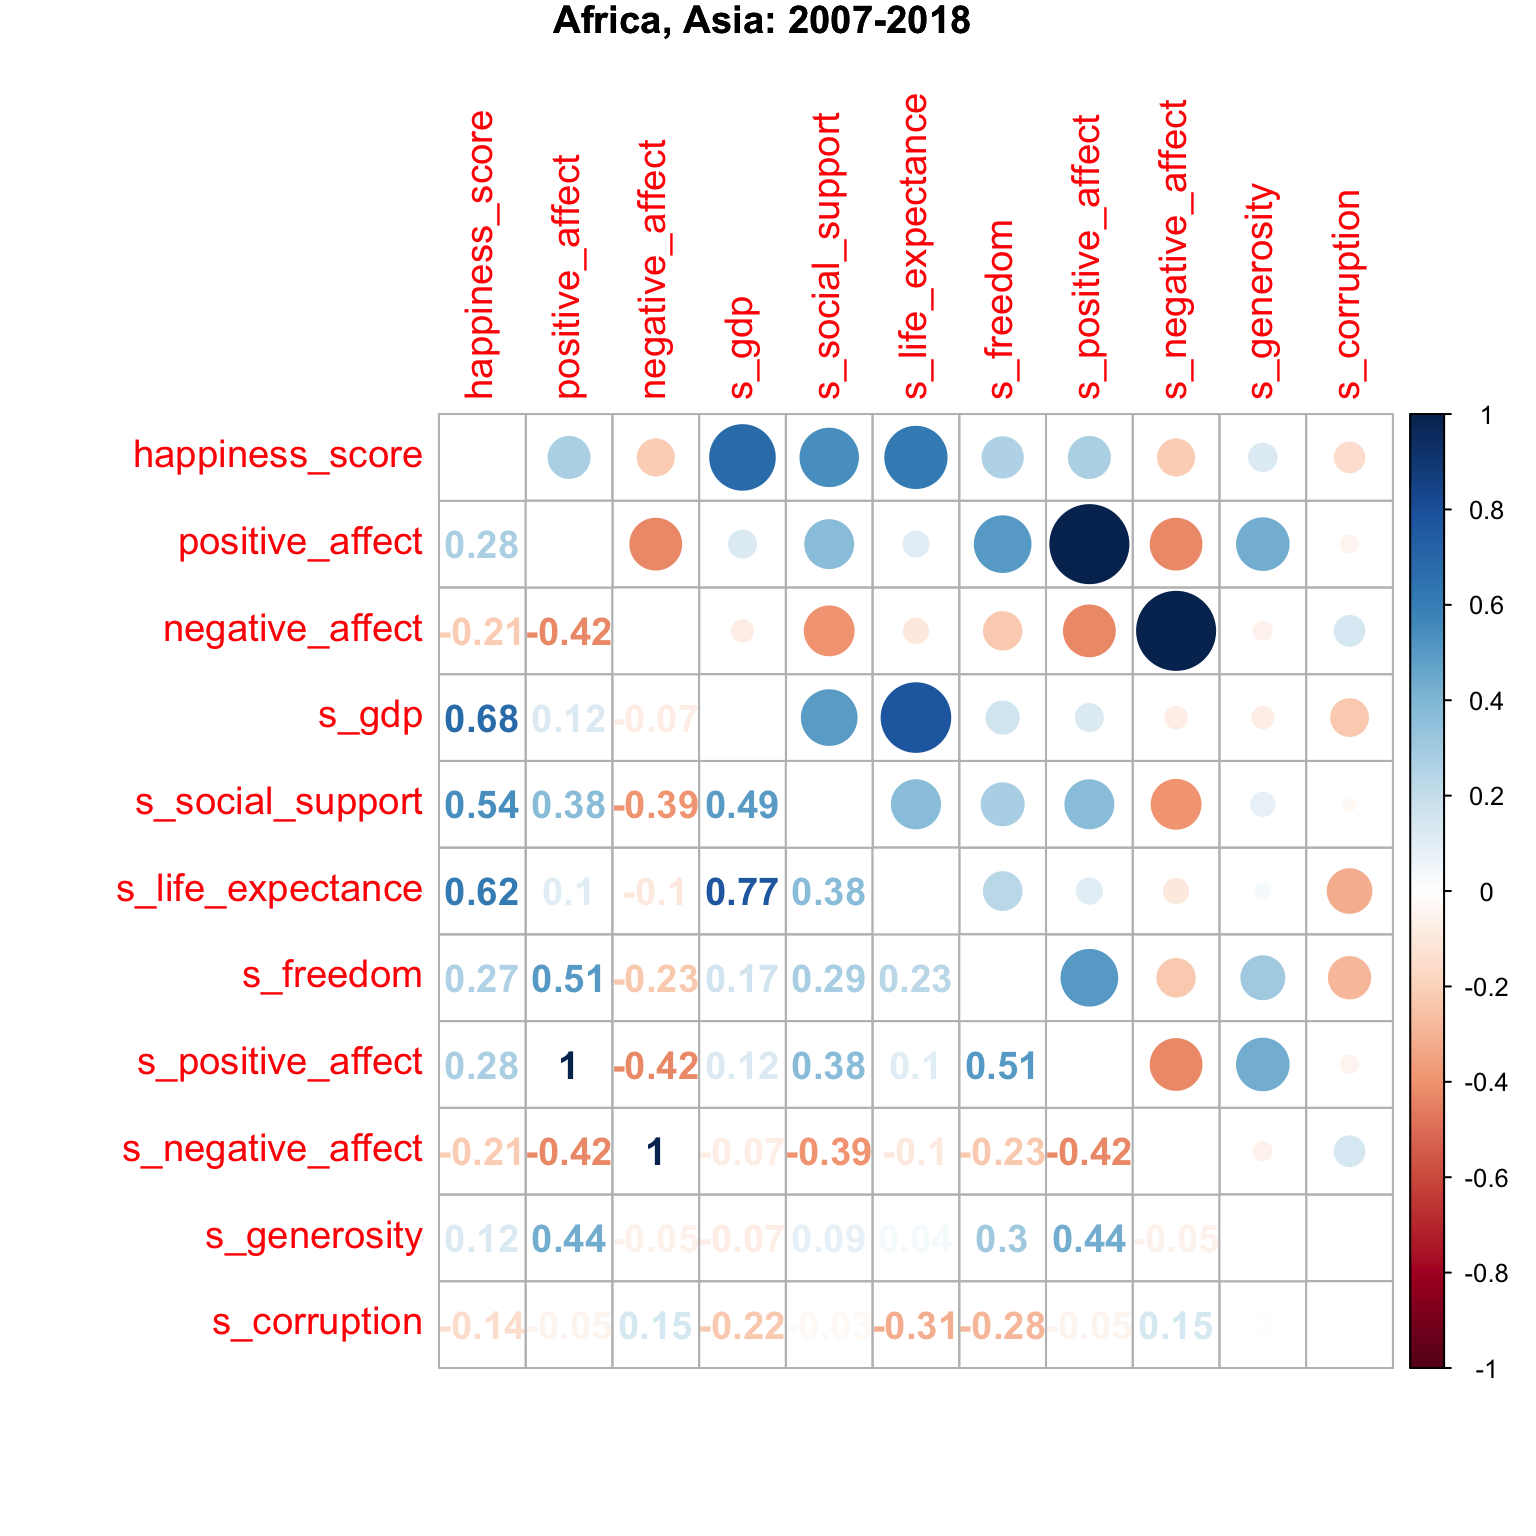
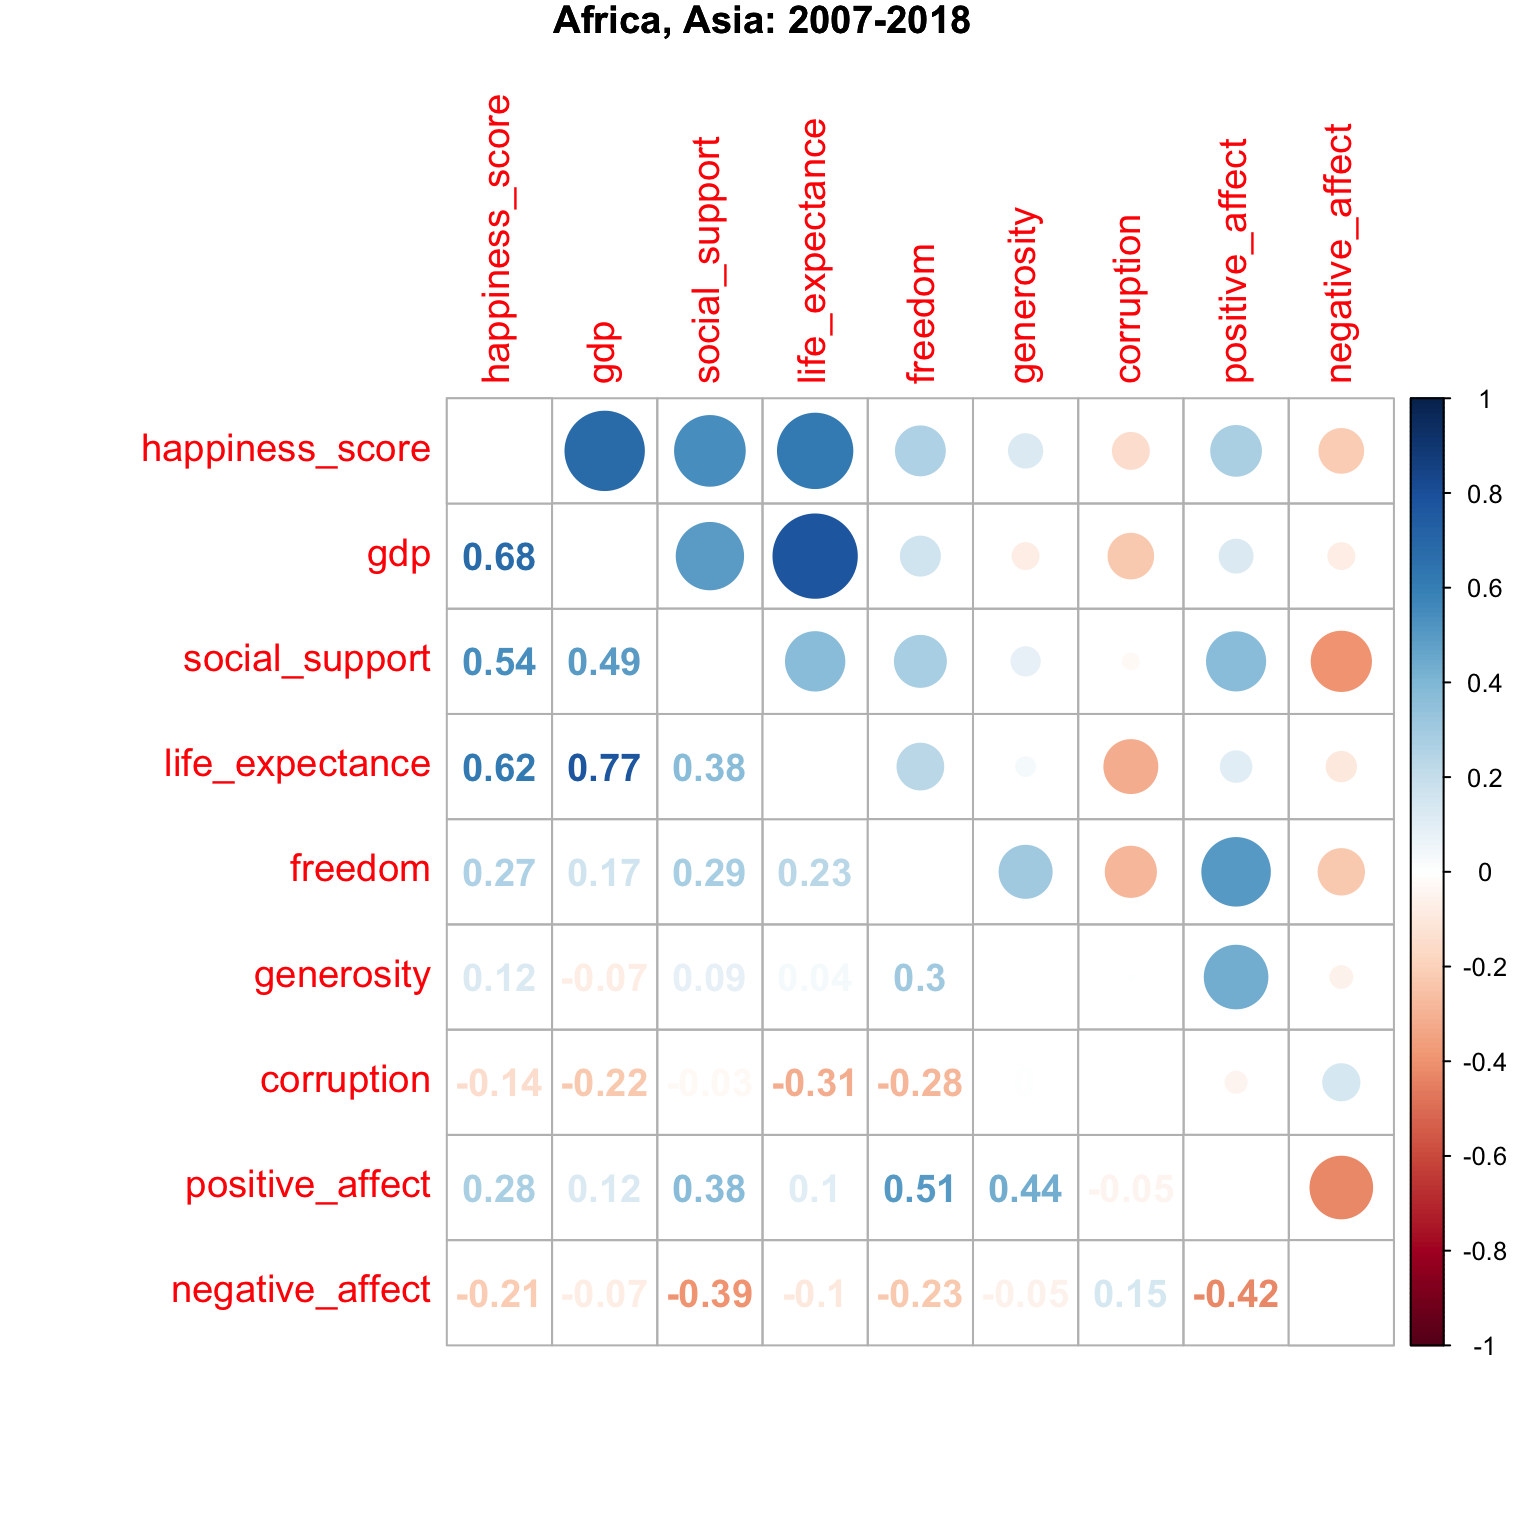
edit correlation plots into real scale

diff --git a/about.html b/about.html
@@ -665,7 +665,7 @@ plot1/plot2/plot3</code></pre>
 <h3><strong>The correlation plot for happiness score and other factors: worldwide</strong></h3>
 <ul>
 <li><p>From the scatterplot, the factors <code>negative_affect</code> and <code>corruption</code> have the negative association with happiness score, but <code>gdp</code>, <code>social support</code>, <code>life_expectancy</code>, <code>freedom</code>, <code>positive_affect</code> and <code>generosity</code> have the positive association.</p></li>
-<li><p>From the correlation matrix plot, the happiness score is highly associated with <code>gdp</code>, <code>social support</code> and <code>life_expectancy</code>(&gt; 0.7). In addition, <code>gdp</code> and <code>life_expctancy</code> are highly correlated with each other(&gt; 0.7).</p></li>
+<li><p>From the correlation matrix plot, the happiness score is highly associated with <code>gdp</code>, <code>social_support</code> and <code>life_expectancy</code>(&gt; 0.7). In addition, <code>gdp</code> and <code>life_expctancy</code> are highly correlated with each other(&gt; 0.7).</p></li>
 </ul>
 <pre class="r"><code>happy_standard %&gt;% 
   pivot_longer(s_gdp:s_corruption,
@@ -682,9 +682,9 @@ plot1/plot2/plot3</code></pre>
        title = &quot;Happiness score against other factors worldwide: 2007-2018&quot;) + 
   theme(legend.position = &quot;none&quot;)</code></pre>
 <p><img src="about_files/figure-html/unnamed-chunk-5-1.png" width="50%" /></p>
-<pre class="r"><code>happy_standard %&gt;% 
+<pre class="r"><code>happy %&gt;% 
   drop_na() %&gt;%
-  select(-c(country, year, continent, develop)) %&gt;% 
+  select(-c(country, year, continent, develop,o_gdp)) %&gt;% 
   cor() %&gt;%
   corrplot.mixed(title = &quot;Happiness score against other factors worldwide: 2007-2018&quot;,
                  tl.cex = 1.2, tl.pos = &quot;lt&quot;, number.cex = 1.2,
@@ -698,28 +698,28 @@ plot1/plot2/plot3</code></pre>
 <li><p>Europe, North America, South America have the medium happiness score, and the score has moderate correlation with <code>gdp</code>, <code>social support</code>, <code>life_expectancy</code>, <code>freedom</code>, <code>positive_affect</code> and <code>corruption</code>(0.6 - 0.7)</p></li>
 <li><p>Africa and Asia have the lowest happiness score, and the score has moderate correlation with <code>gdp</code>, <code>social support</code> and <code>life_expectancy</code>(0.6 - 0.7).</p></li>
 </ul>
-<pre class="r"><code>happy_standard %&gt;% 
+<pre class="r"><code>happy %&gt;% 
   drop_na() %&gt;%
   filter(continent == &quot;Australia&quot;) %&gt;% 
-  select(-c(country, year, continent, develop)) %&gt;% 
+  select(-c(country, year, continent, develop,o_gdp)) %&gt;% 
   cor() %&gt;%
   corrplot.mixed(title = &quot;Australia: 2007-2018&quot;,
                  tl.cex = 1.2, tl.pos = &quot;lt&quot;, number.cex = 1.2,
                   mar=c(0,0,1,0))</code></pre>
 <p><img src="about_files/figure-html/unnamed-chunk-6-1.png" width="50%" /></p>
-<pre class="r"><code>happy_standard %&gt;% 
+<pre class="r"><code>happy %&gt;% 
   drop_na() %&gt;%
   filter(continent %in% c(&quot;Europe&quot;, &quot;North America&quot;, &quot;South America&quot;))  %&gt;% 
-  select(-c(country, year, continent, develop)) %&gt;% 
+  select(-c(country, year, continent, develop,o_gdp)) %&gt;% 
   cor() %&gt;%
   corrplot.mixed(title = &quot;Europe, North America, South America: 2007-2018&quot;,
                  tl.cex = 1.2, tl.pos = &quot;lt&quot;, number.cex = 1.2,
                   mar = c(0,0,1,0))</code></pre>
 <p><img src="about_files/figure-html/unnamed-chunk-6-2.png" width="50%" /></p>
-<pre class="r"><code>happy_standard %&gt;% 
+<pre class="r"><code>happy %&gt;% 
   drop_na() %&gt;%
  filter(continent %in% c(&quot;Africa&quot;, &quot;Asia&quot;)) %&gt;% 
-  select(-c(country, year, continent, develop)) %&gt;% 
+  select(-c(country, year, continent, develop,o_gdp)) %&gt;% 
   cor() %&gt;%
   corrplot.mixed(title = &quot;Africa, Asia: 2007-2018 &quot;,
                  tl.cex = 1.2, tl.pos = &quot;lt&quot;, number.cex = 1.2,
@@ -732,19 +732,19 @@ plot1/plot2/plot3</code></pre>
 <li><p>Developing coountries have lower happiness score , and the score has moderate correlation with <code>gdp</code>, <code>social support</code> and <code>life_expectancy</code>(around 0.6).</p></li>
 <li><p>Developed coountries have higher happiness score , and the score has moderate correlation with <code>social support</code>,<code>freedom</code>, <code>positive_affect</code>, <code>negative_affect</code>, <code>generosity</code> and <code>corruption</code> (around 0.6)</p></li>
 </ul>
-<pre class="r"><code>happy_standard %&gt;% 
+<pre class="r"><code>happy %&gt;% 
   drop_na() %&gt;%
   filter(develop == &quot;developing&quot;) %&gt;% 
-  select(-c( country, year, continent, develop)) %&gt;% 
+  select(-c( country, year, continent, develop,o_gdp)) %&gt;% 
   cor() %&gt;%
   corrplot.mixed(title = &quot;Developing: 2007-2018&quot;,
                  tl.cex = 1.2, tl.pos = &quot;lt&quot;, number.cex = 1.2,
                   mar=c(0,0,1,0))</code></pre>
 <p><img src="about_files/figure-html/unnamed-chunk-7-1.png" width="50%" /></p>
-<pre class="r"><code>happy_standard %&gt;% 
+<pre class="r"><code>happy %&gt;% 
   drop_na() %&gt;%
   filter(develop == &quot;developed&quot;) %&gt;% 
-  select(-c(country, year, continent, develop)) %&gt;% 
+  select(-c(country, year, continent, develop,o_gdp)) %&gt;% 
   cor() %&gt;%
   corrplot.mixed(title = &quot;Developed: 2007-2018&quot;,
                   tl.cex = 1.2, tl.pos = &quot;lt&quot;, number.cex = 1.2,
